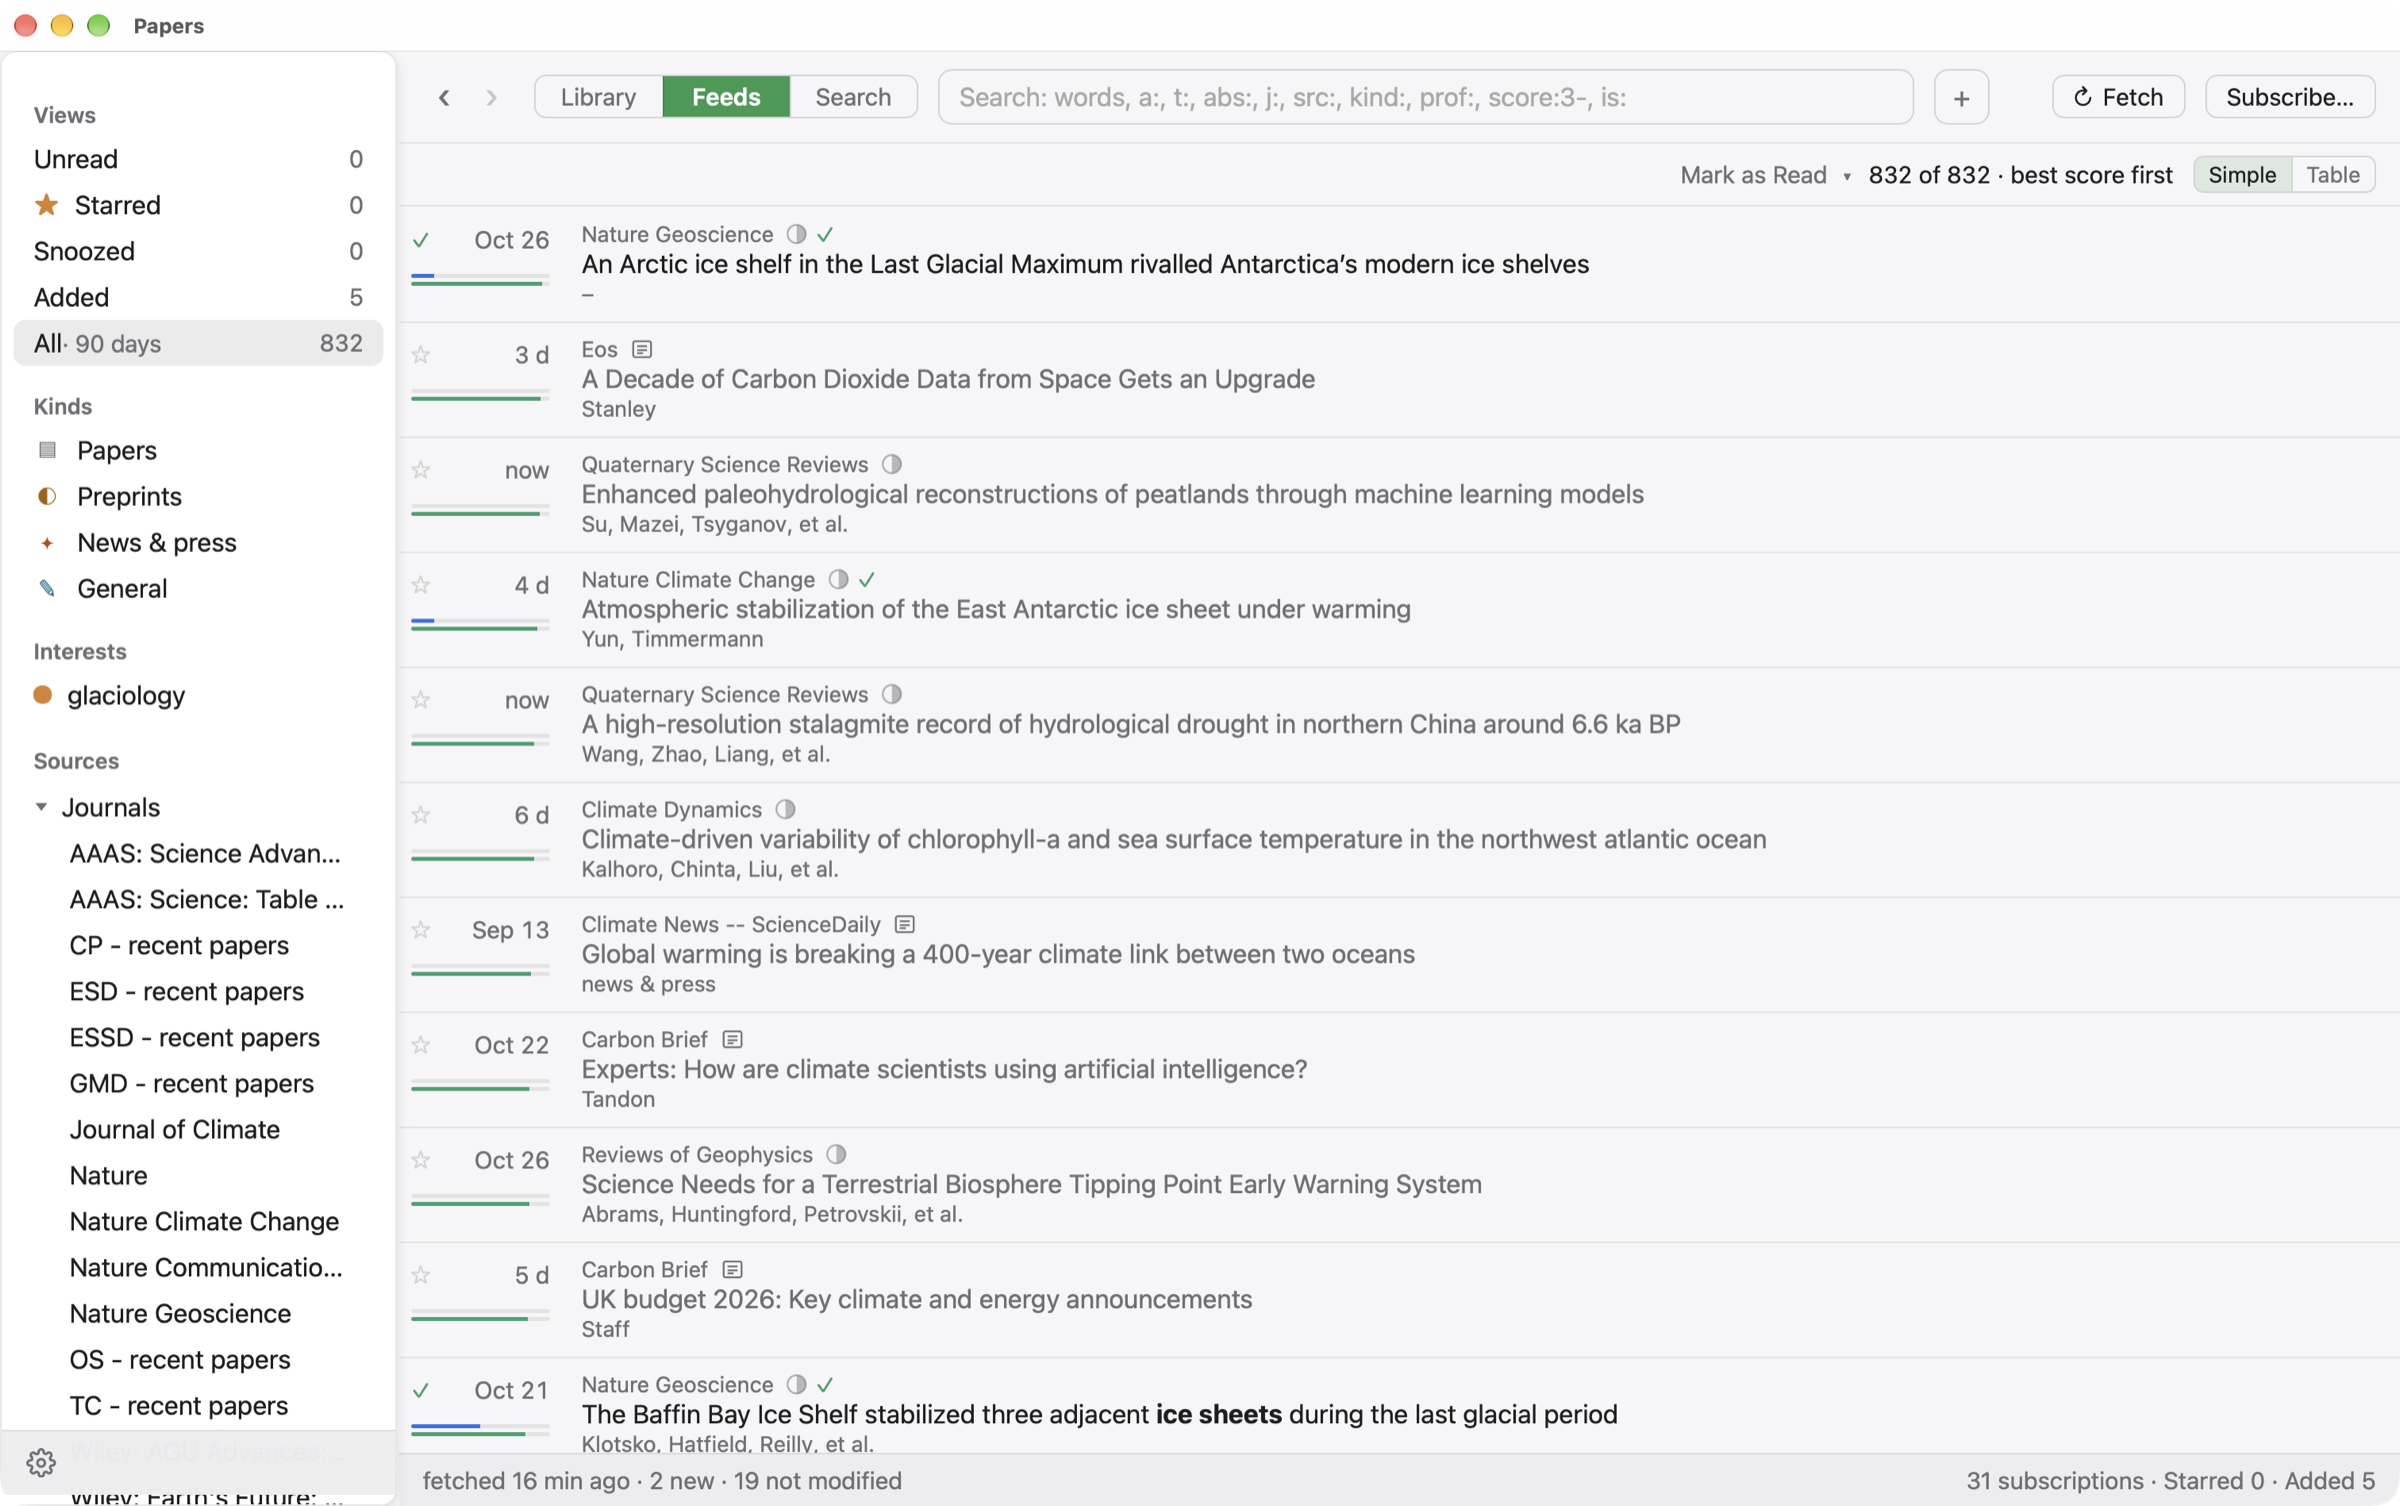
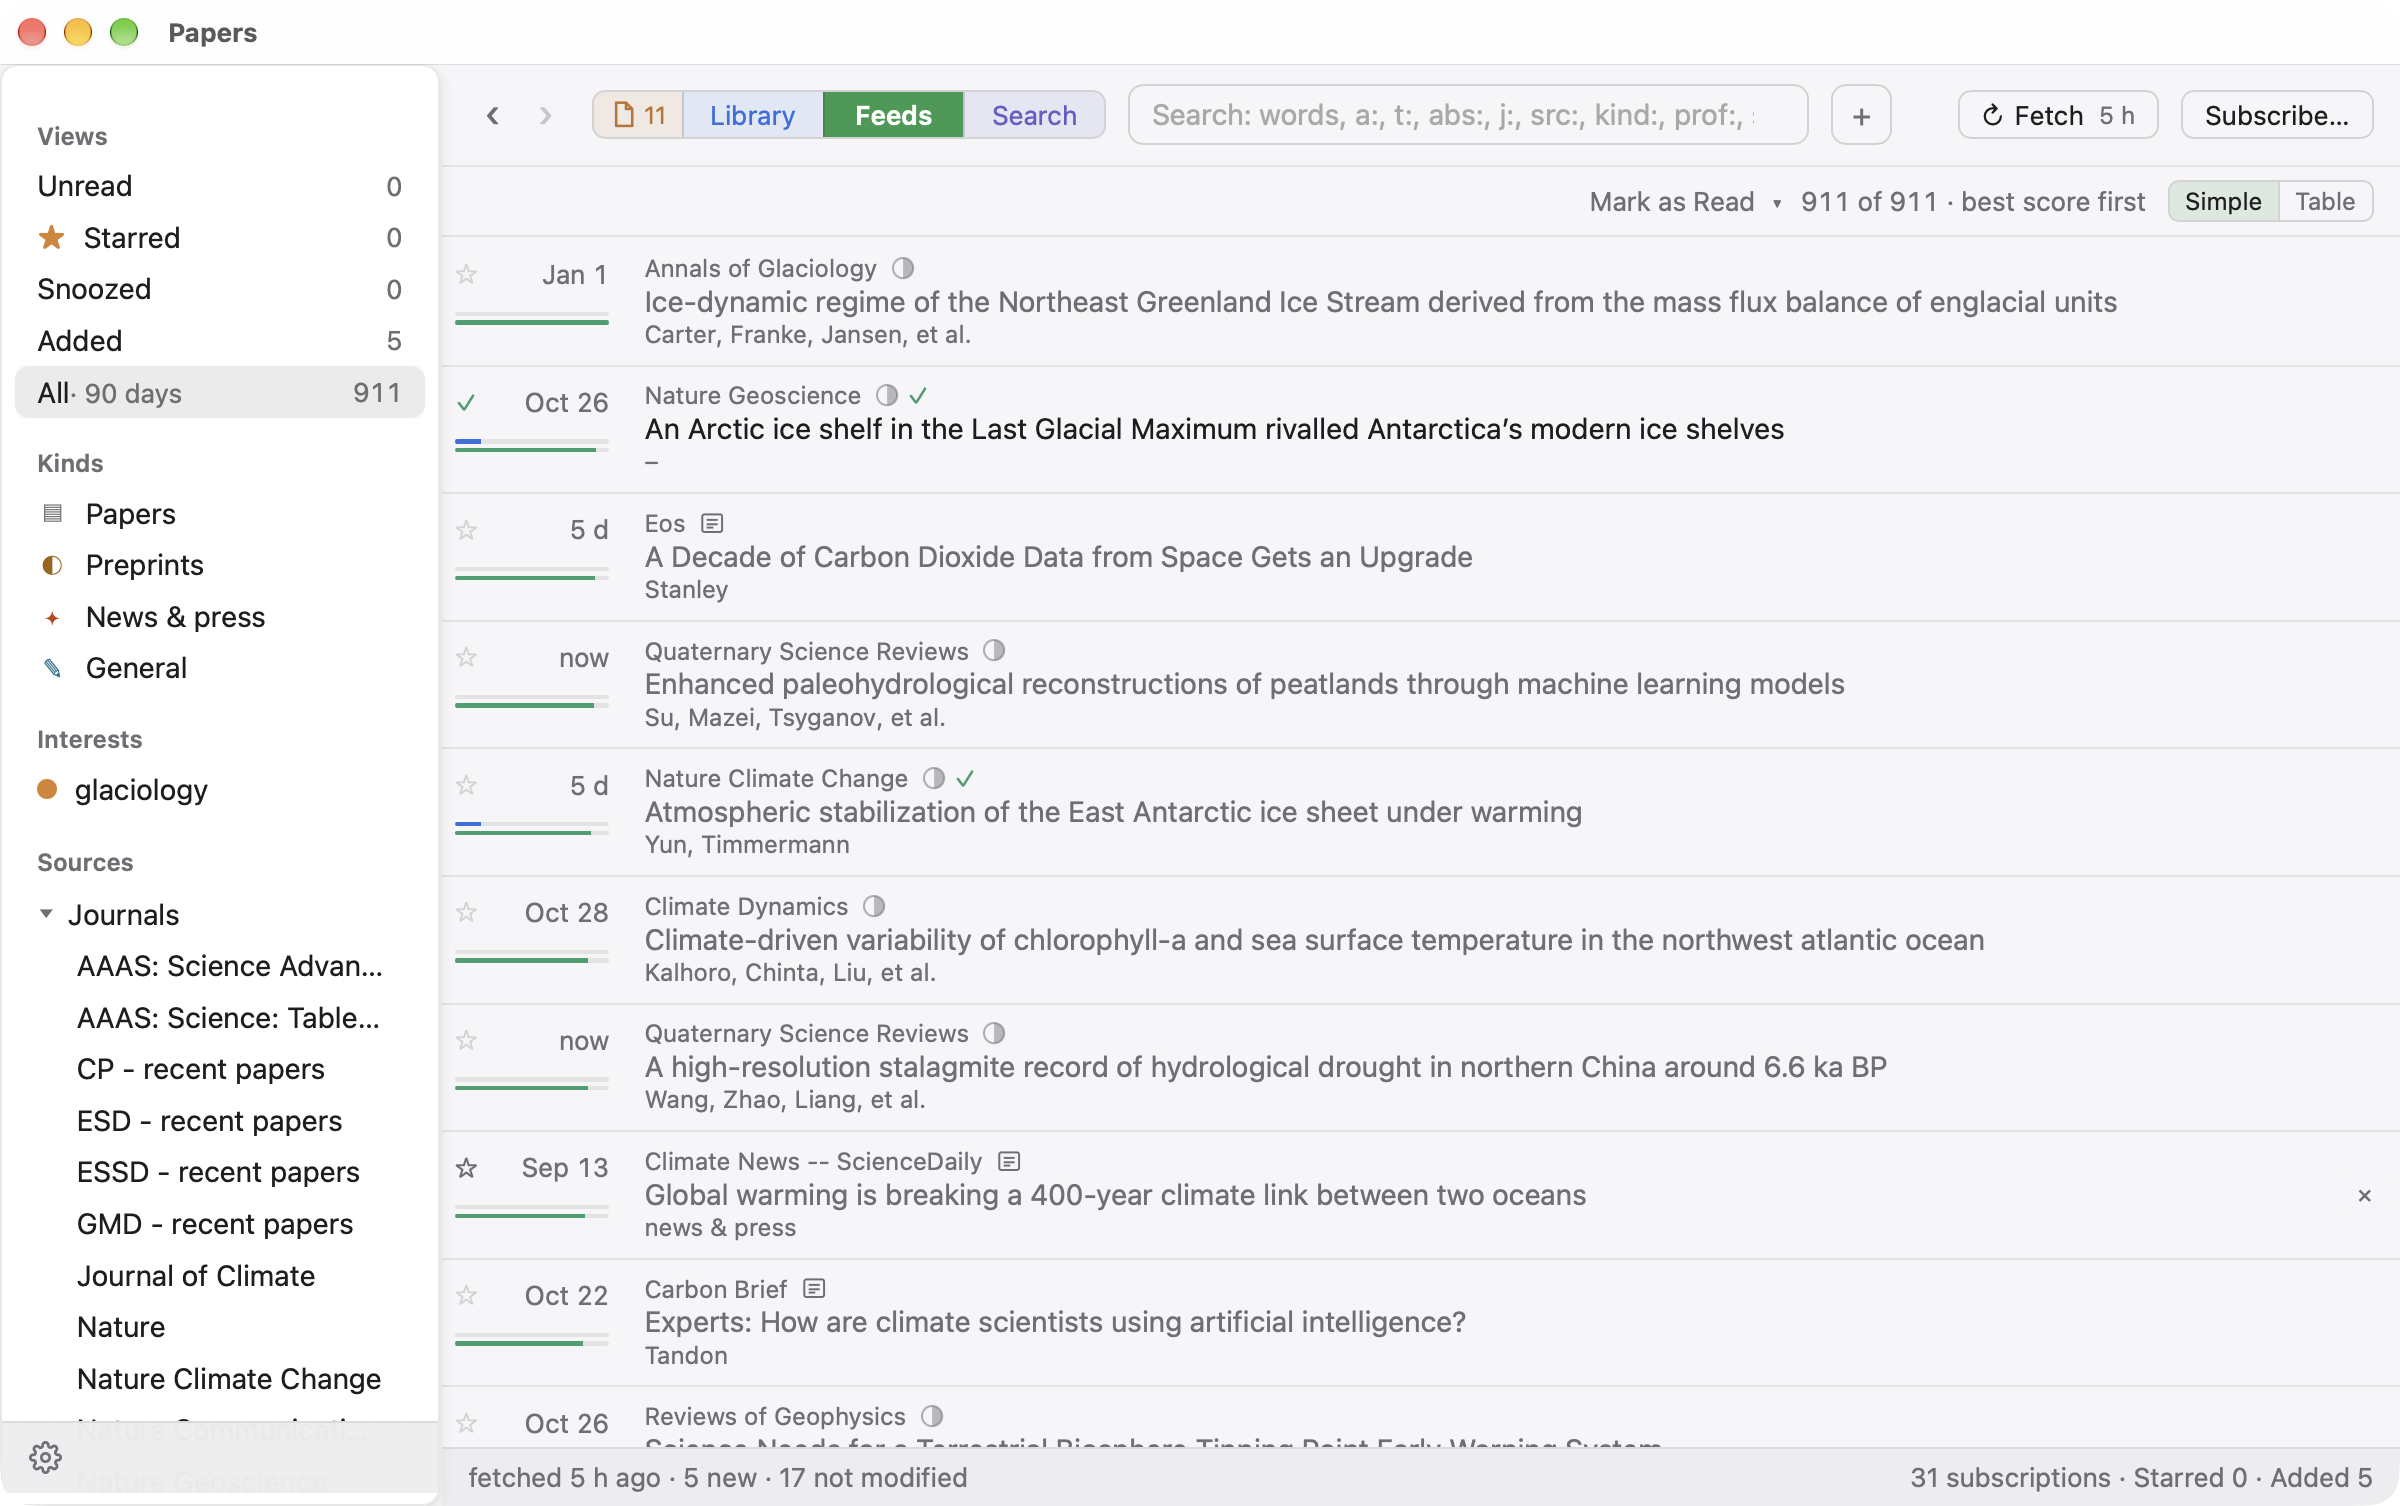
Website: screenshots of the Papers tab, the tinted tabs, and the panel's Search OpenAlex

diff --git a/site/index.html b/site/index.html
@@ -51,13 +51,13 @@
       <img src="images/feeds-list.png" alt="The Feeds tab: the papers and posts of the last 90 days, the best score first, each with its source, title, authors and score bars" width="2400" height="1506">
     </div>
     <div class="shot" role="tabpanel" id="tour-search" aria-labelledby="tab-search" hidden>
-      <img src="images/search-list.png" alt="The Search tab: a search of OpenAlex for Greenland ice sheet melt, the works closest to the library first, those in it ticked" width="2400" height="1506">
+      <img src="images/search-list.png" alt="The Search tab: a search of OpenAlex for Greenland ice sheet melt, the newest works first, each with its score bars, those in the library ticked" width="2400" height="1506">
     </div>
     <div class="shot" role="tabpanel" id="tour-library" aria-labelledby="tab-library" hidden>
-      <img src="images/library.png" alt="The library window: the papers on the Greenland ice sheet in a table, the views of the library in the sidebar, and the details of the paper selected" width="2400" height="1440">
+      <img src="images/library.png" alt="The Library tab: the papers on the Greenland ice sheet in a table, the views and tags of the library in the sidebar, and the details of the paper selected" width="2400" height="1506">
     </div>
     <div class="shot" role="tabpanel" id="tour-panel" aria-labelledby="tab-panel" hidden>
-      <img src="images/main.png" alt="The search panel: the papers of an author, newest first, and the preview of the first one with its first page and citation" width="2532" height="1012">
+      <img src="images/main.png" alt="The search panel: the papers of an author, newest first, the preview of the first one with its first page and citation, and under the list a search of OpenAlex for the author" width="2684" height="1014">
     </div>
   </div>
 </section>
@@ -108,7 +108,7 @@
       <p>Add a paper by its DOI or arXiv id, with its free PDF; edit, tag and attach files; <kbd>⌘Z</kbd> undoes
         any change. Export the papers of a tag to a <code>.bib</code> file: the references of a manuscript.</p>
     </div>
-    <img src="images/library.png" alt="The library window: the papers on the Greenland ice sheet in a table, the views of the library in the sidebar, and the details of the paper selected" loading="lazy" width="2400" height="1440">
+    <img src="images/library.png" alt="The Library tab: the papers on the Greenland ice sheet in a table, the views and tags of the library in the sidebar, and the details of the paper selected" loading="lazy" width="2400" height="1506">
   </article>
 
   <article id="read" class="feature wide reverse">
@@ -121,7 +121,7 @@
       <p>Everything has a key: <kbd>/</kbd> to search, <kbd>⌘1</kbd> to <kbd>⌘4</kbd> for the papers open, the
         library, the feeds and the search, <kbd>⌃Tab</kbd> from paper to paper, <kbd>⌘W</kbd> to close.</p>
     </div>
-    <img src="images/reader.png" alt="A paper open in a tab of the library window: the PDF, with the views and the open papers in the sidebar" loading="lazy" width="2400" height="1506">
+    <img src="images/reader.png" alt="A paper open in the Papers tab: its PDF, its details beside it, and the papers open in the sidebar" loading="lazy" width="2400" height="1506">
   </article>
 
   <article id="cite" class="feature wide">
@@ -135,7 +135,7 @@
         <code>\cite{key}</code> for LaTeX, <kbd>⌘B</kbd> the BibTeX, <kbd>⌘⌥C</kbd> the citation in your style.
         <kbd>⌘K</kbd> lists every action.</p>
     </div>
-    <img src="images/actions.png" alt="The list of actions over the results: open the PDF, reveal it, open the DOI page, copy the key, [@key], \cite{key} or the BibTeX" loading="lazy" width="2532" height="1012">
+    <img src="images/actions.png" alt="The list of actions over the results: open the PDF, reveal it, open the DOI page, copy the key, [@key], \cite{key} or the BibTeX" loading="lazy" width="2684" height="1014">
   </article>
 
   <div class="grid">
